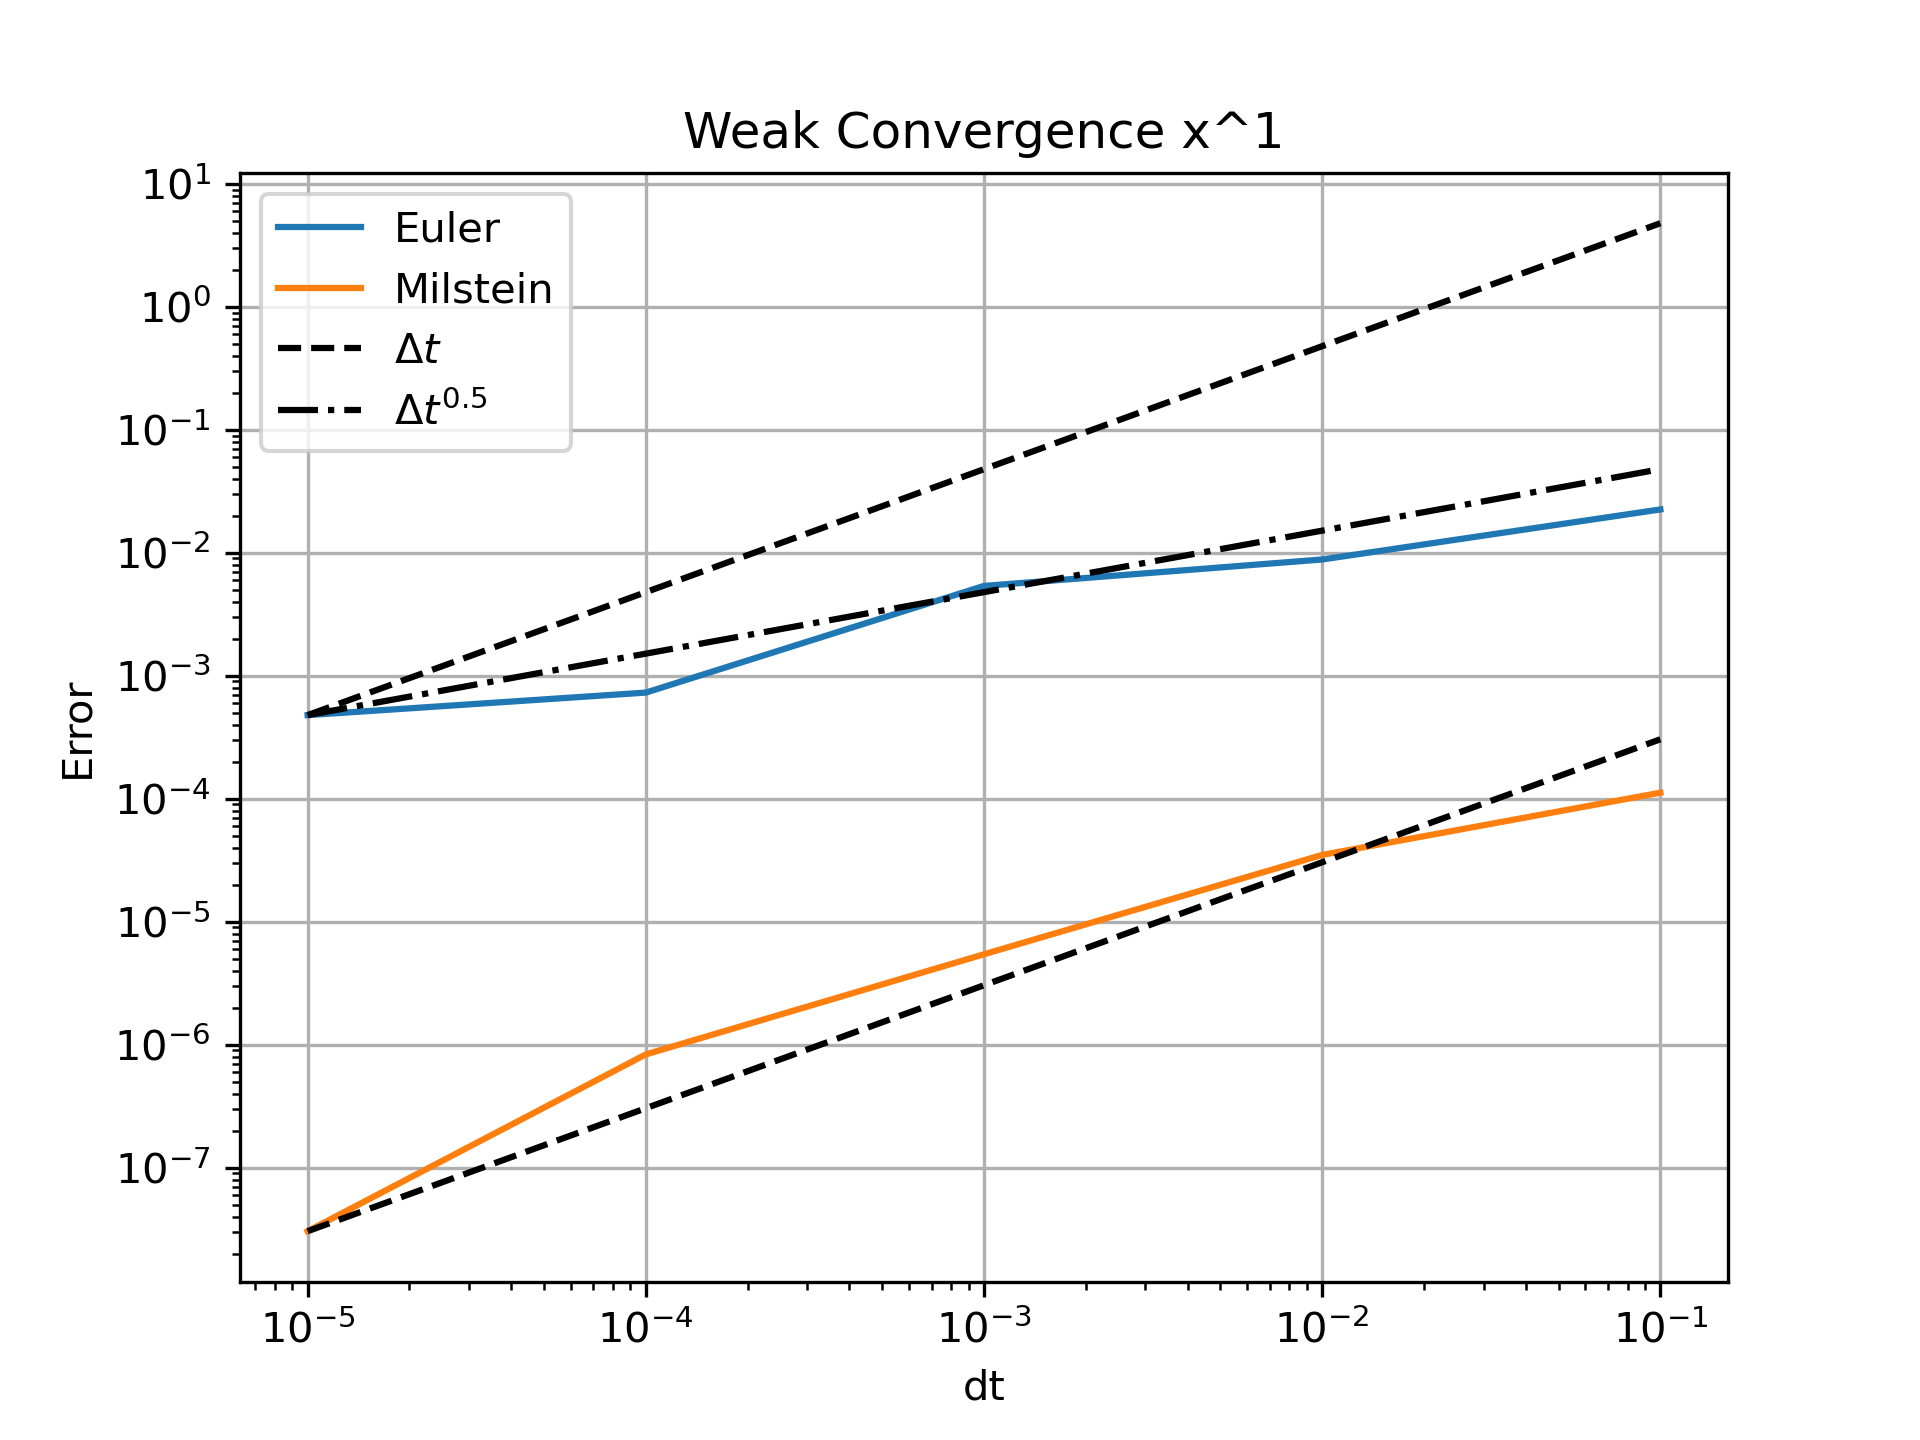
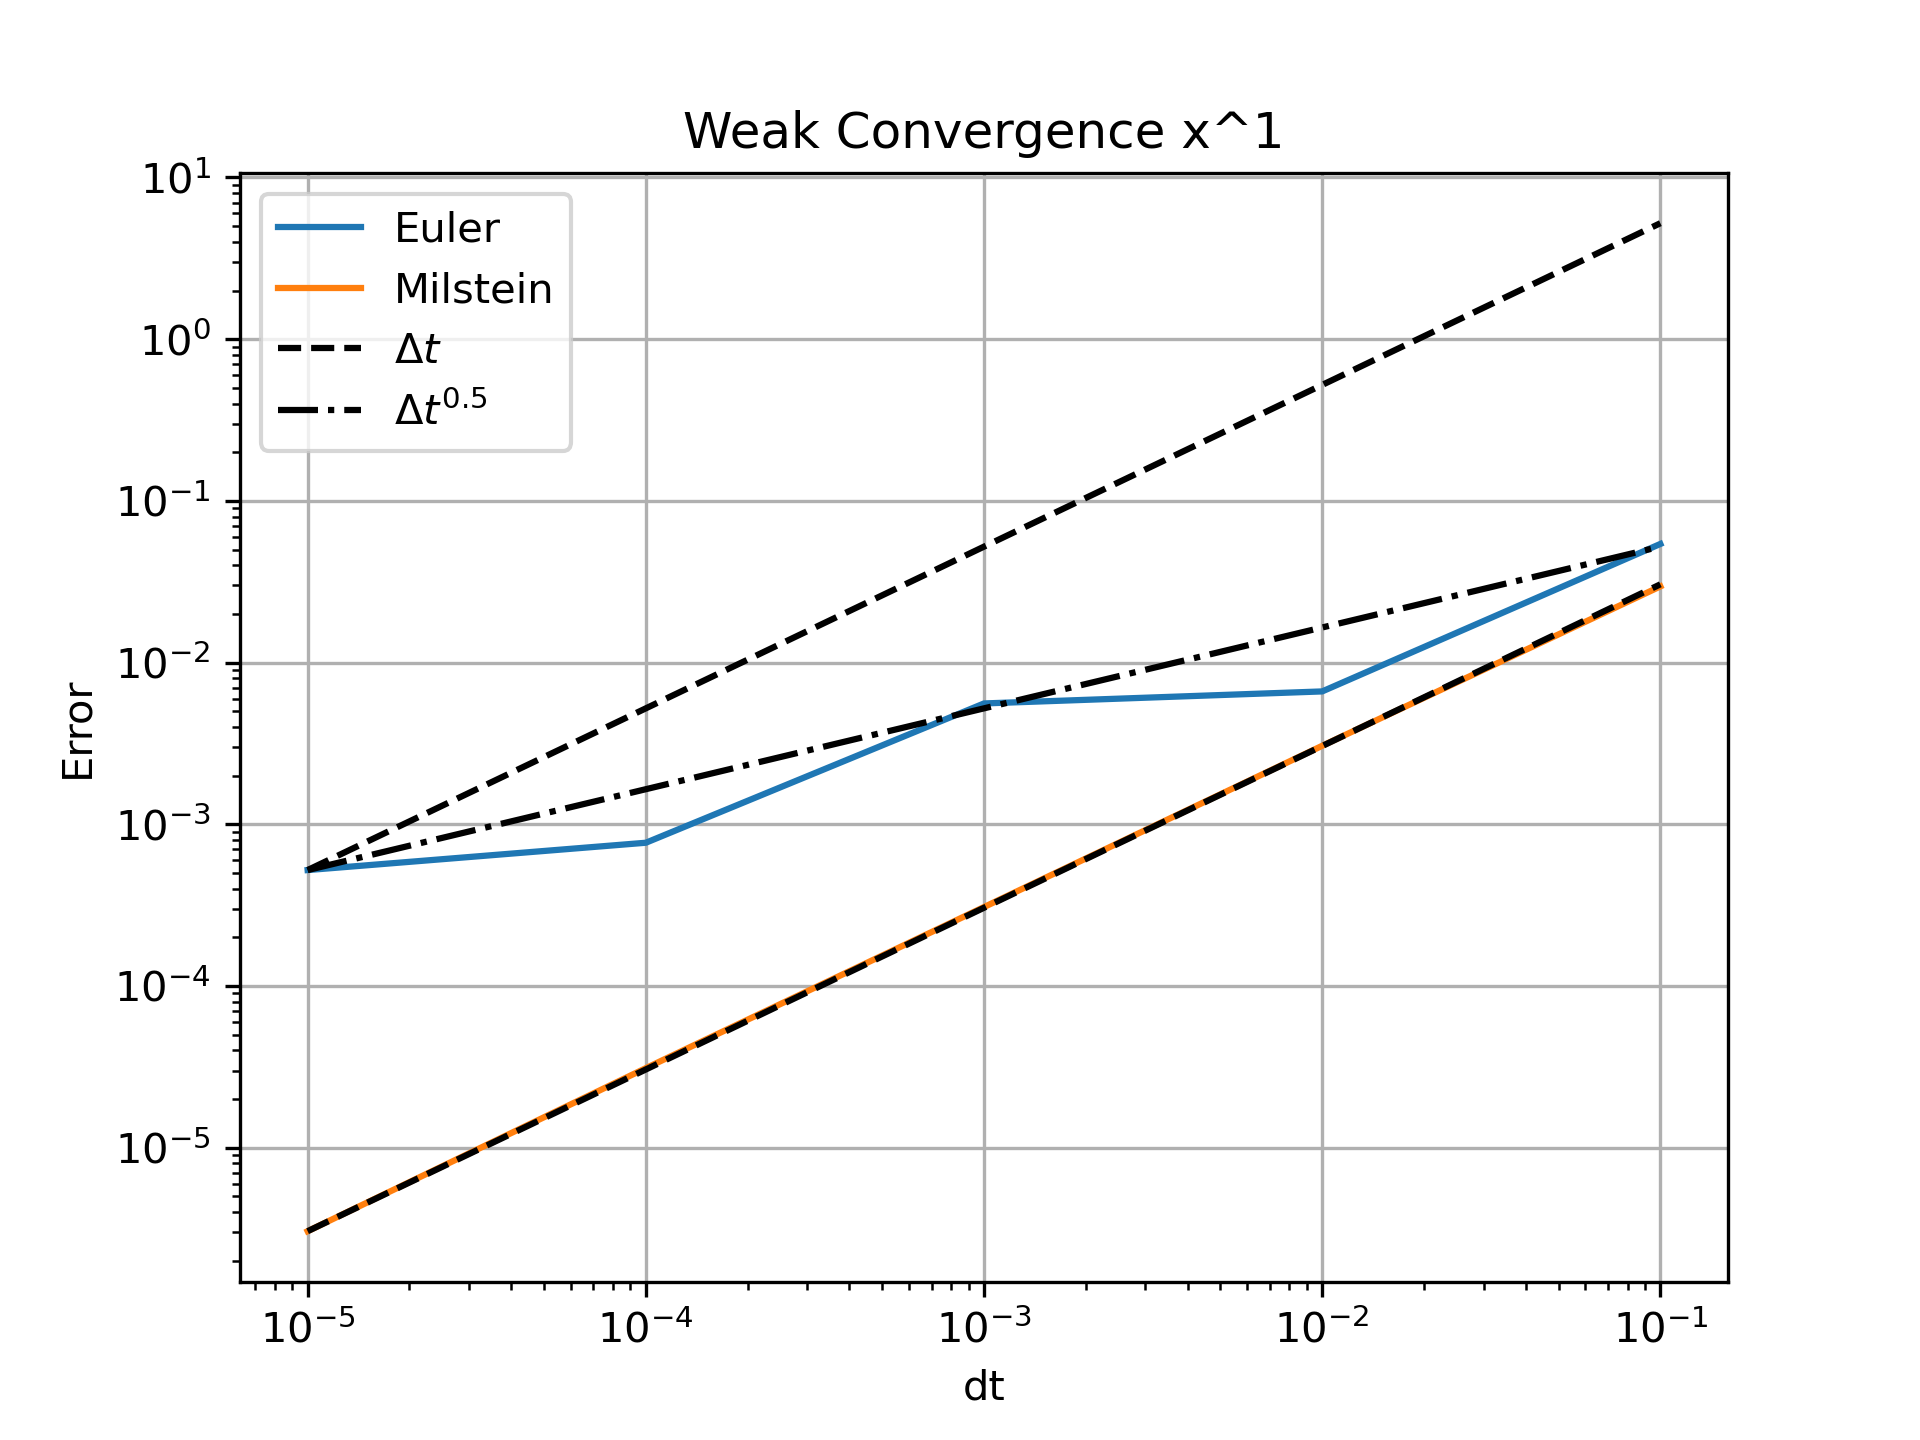
Final plots

diff --git a/QuestionE.py b/QuestionE.py
@@ -61,7 +61,7 @@ def Strong_convergence_Vector(n_list:list, n_realisations:int, model, X_0:list, 
     plt.title("Strong Convergence")
     plt.grid()
     plt.legend()
-    plt.savefig("./Plots/StrongeConvergence_" + model.name +".png",dpi=300)
+    plt.savefig(f"./Plots/P={p}Alpha={alpha}/StrongConvergence{n_realisations}" + model.name +".png",dpi=300)
     plt.show()
     return 
 
@@ -148,7 +148,7 @@ def Weak_convergence_Vector(n_list:list, n_realisations:int, model, X_0:float, W
         plt.ylabel("Error")
         plt.title(f"Weak Convergence x^{exponent[j]}")
         plt.legend()
-        plt.savefig(f"./Plots/Weak_convergence_{exponent[j]}_{model.name}.png",dpi=300)
+        plt.savefig(f"./Plots/P={p}Alpha={alpha}/Weak_convergence_{exponent[j]}_{n_realisations}_{model.name}.png",dpi=300)
         plt.show()
     return
 
@@ -156,7 +156,7 @@ def Weak_convergence_Vector(n_list:list, n_realisations:int, model, X_0:float, W
 if __name__ == "__main__":  
     #Parameters
     mu = 0.10
-    p = 1.5
+    p = 0.5
     alpha = 1.2
     
     #Initial Conditions
@@ -169,10 +169,10 @@ if __name__ == "__main__":
     #initialize the model
     model = Vector_Model(mu,alpha,p)
     
-    order = 4 #How fine are the timesteps. order = 5 => smallest dt = 10^-5
+    order = 5 #How fine are the timesteps. order = 5 => smallest dt = 10^-5
     t_end = 1
     
-    n_realisations = 500
+    n_realisations = 100
     np.random.seed(0)
 
     #list with the number of timesteps to use
@@ -190,4 +190,4 @@ if __name__ == "__main__":
     
     Weak_convergence_Vector(n, n_realisations, model, X_0, W, t_end=t_end,exponent=[1,2,3])
 
-    #Strong_convergence_Vector(n, n_realisations, model, X_0, W, t_end=t_end)
+    Strong_convergence_Vector(n, n_realisations, model, X_0, W, t_end=t_end)

diff --git a/QuestionC.py b/QuestionC.py
@@ -64,7 +64,7 @@ def Strong_convergence_BS(n_list:list, n_realisations:int, model, X_0:float, W:n
 
 if __name__ == "__main__":  
     #Parameters
-    mu = 0.01
+    mu = 0.1
     sigma_0 = 0.2
     
     #Initial Conditions

diff --git a/QuestionD.py b/QuestionD.py
@@ -82,7 +82,7 @@ def Weak_convergence_BS(n_list:list, n_realisations:int, model, X_0:float, W, t_
 
 if __name__ == "__main__":
     #Parameters
-    mu = 0.01
+    mu = 0.1
     sigma_0 = 0.2
 
     S_0 = 50
